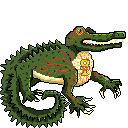
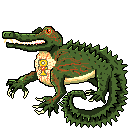
Add Rhi's Yeti boss art and Krondis attack frame
Split Rhi's two-frame sheets into idle and -strike PNGs in art/bosses.
The Yeti keeps its golem body for rules; its boss PNG is looked up by
class, falling back to the code-drawn golem if the PNG is missing.

diff --git a/js/03-pixel-art.js b/js/03-pixel-art.js
@@ -143,7 +143,7 @@ function crystallise(P,cls,big,small,sc){if(small){const W=32,g=P.g;let h=0;for(
 }
 function fig(L,cls,team,pose,wk,sz){
   if(typeof isHi==='function'&&isHi(cls,sz))return hiFig(L||{},cls,team,pose,wk);
-  if(sz>=2){const B=BIG[CLS[cls].body];if(B)return B(L,pose==='strike')}
+  if(sz>=2){const B=BIG[cls]||BIG[CLS[cls].body],r=B&&B(L,pose==='strike');if(r)return r}
   /* monsters: art/monsters/<Class>.png (and <Class>-strike.png for the attack pose) replaces the code-drawn sprite, see monsterArt() */
   {const k='monsters/'+cls;if(ART_PNG.has(k))return'art/'+k+(pose==='strike'&&ART_PNG.has(k+'-strike')?'-strike':'')+'.png'}
   if(sz>=2)pxScale=2;
@@ -214,6 +214,8 @@ BIG.bear=(L,strike)=>{const p=Px(64,64),c=L.fur||'#3a2a24',c2=shade(c,.68),c3=sh
    (else the idle one is used for attacks too). Drawn facing right; enemies are flipped to face left in game. */
 function bigPng(body,name){const draw=BIG[body],k='bosses/'+name;BIG[body]=(L,strike)=>{if(!ART_PNG.has(k))return draw(L,strike);return'art/'+k+(strike&&ART_PNG.has(k+'-strike')?'-strike':'')+'.png'}}
 bigPng('bear','hollow-bear');
+/* the Yeti shares the golem body for tags/rules, so its PNG is keyed by class; without the PNG it falls back to the white golem */
+BIG.Yeti=()=>{};bigPng('Yeti','yeti');
 /* ==================================================================
    32px SPRITES (fig0): one branch per monster body type, then the generic
    humanoid body (tunic, robe, armour, vest, serpent) for anything else.

diff --git a/js/16-maps-battles.js b/js/16-maps-battles.js
@@ -9,7 +9,7 @@ Object.assign(CLS,{
   GemGolem:{n:'Gem Golem',w:['heavy'],body:'golem',mov:4},Gemsnail:{n:'Gemsnail',w:['art'],body:'snail',mov:3},
   AmethystTurtle:{n:'Amethyst Turtle',w:['heavy','art'],body:'turtle',mov:0},
   HollowBear:{n:'Hollow Bear',w:['heavy'],body:'bear',mov:4},
-  /* placeholders until they get their own art: the Ice Troll is a humanoid brute, the Yeti a white golem body */
+  /* the Ice Troll is a placeholder humanoid brute until it gets its own art; the Yeti keeps the golem body for rules, its art is Rhi's art/bosses/yeti.png */
   IceTroll:{n:'Ice Troll',w:['heavy'],body:'vest',mov:4,wade:true,crit:5},
   Yeti:{n:'Yeti',w:['heavy'],body:'golem',mov:4,wade:true},
   Sage:{n:'Sage',w:['art'],body:'robe',mov:0}

diff --git a/art/manifest.js b/art/manifest.js
@@ -3,6 +3,9 @@ const ART_FILES=["bosses/crystal-heart",
 "bosses/crystal-heart-strike",
 "bosses/hollow-bear",
 "bosses/krondis",
+"bosses/krondis-strike",
+"bosses/yeti",
+"bosses/yeti-strike",
 "cast/aldric/juggernaut-critup",
 "cast/aldric/juggernaut-follow",
 "cast/aldric/juggernaut-idle",

diff --git a/art/CREDITS.md b/art/CREDITS.md
@@ -2,7 +2,7 @@
 
 - **Raven Fantasy Icons** by [Clockwork Raven](https://clockworkraven.itch.io/raven-fantasy-icons) (free version). Used for relic, item, weapon, gear and tavern-meal icons in `art/relics/`, `art/icons/`, `art/meals/` and `art/ui/` (coin, mug). Commercial use allowed; the icons must not be redistributed or sold as an asset pack on their own, so only the individual icons the game uses are kept here. Exception: the Horn of Plenty relic (`art/relics/plenty.png`) is an original horn drawn for the game.
 - **Pixel Isometric Tiles** by [crabling](https://scrabling.itch.io/pixel-isometric-tiles) (CC BY 4.0). Used for the boulder prop (`art/tiles/boulder.png`) and the original water and ice ground (since replaced by the painted textures below). Only the tiles the game uses are kept here.
-- Campfires (`art/nodes/rest.png`, `art/nodes/rest-map.png`), chests (`art/nodes/treasure.png`, `art/scenes/chest.png`) and the Bog Witch (`art/scenes/witch.png`) drawn by Rhi. Also the Hollow Bear and Krondis bosses (`art/bosses/hollow-bear.png`, `art/bosses/krondis.png`) the Bog Witch's hut and cauldron (`art/scenes/witch-hut.png`, `art/scenes/cauldron.png`), the Fallen Star's meteor (`art/scenes/meteor.png`) and the tankard on the node map (`art/nodes/tavern.png`). Vaar the Brawler (`art/cast/vaar/brawler-*.png`: idle plus a 3-frame axe swing). Kili the Archer (`art/cast/kili/archer-*.png`; one pose for now, used for his attack frames too until his attack animation is drawn).
+- Campfires (`art/nodes/rest.png`, `art/nodes/rest-map.png`), chests (`art/nodes/treasure.png`, `art/scenes/chest.png`) and the Bog Witch (`art/scenes/witch.png`) drawn by Rhi. Also the Hollow Bear, Krondis and Yeti bosses (`art/bosses/hollow-bear.png`, `art/bosses/krondis*.png`, `art/bosses/yeti*.png`, with attack frames for Krondis and the Yeti) the Bog Witch's hut and cauldron (`art/scenes/witch-hut.png`, `art/scenes/cauldron.png`), the Fallen Star's meteor (`art/scenes/meteor.png`) and the tankard on the node map (`art/nodes/tavern.png`). Vaar the Brawler (`art/cast/vaar/brawler-*.png`: idle plus a 3-frame axe swing). Kili the Archer (`art/cast/kili/archer-*.png`; one pose for now, used for his attack frames too until his attack animation is drawn).
 - Spirit Frog familiar (`art/monsters/SpiritFrog.png`, `SpiritFrog-strike.png`) by [pixel_prismor](https://pixel-prismor.itch.io/), cut out and scaled to 32px. Temporary placeholder.
 - **Dungeon Crawl Stone Soup** tiles ([crawl/crawl](https://github.com/crawl/crawl), CC0). Rook's dagger is its `item/weapon/dagger.png`, stored as pixel data in `WPN_ART` in `js/09b-battle-rig.js`.
 - **Dark Ages UI - Pixel Art Asset Pack** v1.0 by [Hypnobius](https://hypnobius.itch.io/dark-ages-ui). Used for the ornate box frame (`art/ui/frame.png`), the node map's scroll thumbs (`art/ui/scroll-v.png`, `scroll-h.png`) and the Ascension arrows (`art/ui/arrow-l.png`, `arrow-r.png`, cut from the ends of the horizontal bar). Only the pieces the game uses are kept here.

diff --git a/art/README.md b/art/README.md
@@ -23,7 +23,7 @@ You only need to rebuild the manifest when you **add** or **delete** a PNG: `nod
 | `bosses/` | The Crystal Heart (act 3 boss, 3×3 tiles): idle and `-strike` | 96×96 |
 | `cast/<character>/` | The named cast: `<class>-<pose>.png` for their starting class and each ascension. Poses: `idle`, and the attack frames `windup`, `swing`, `follow`, `critup`. Drawn with the character's listed weapon, so weapon upgrades don't change the picture | 64×64 |
 | `monsters/` | Every monster, region boss (except the big hand-drawn ones in `bosses/`) and summon: `<Class>.png` standing and `<Class>-strike.png` attacking. One fixed look each, so a monster no longer gets random colours | 32×32 |
-| `bosses/hollow-bear`, `bosses/krondis` | The Hollow Bear and Krondis (2×2 bosses), facing right; add `<name>-strike` for an attack pose | 128×128 |
+| `bosses/hollow-bear`, `bosses/krondis`, `bosses/yeti` | The Hollow Bear, Krondis and the Yeti (2×2 bosses), facing right; add `<name>-strike` for an attack pose | 128×128 |
 
 ## The code-drawn versions
 
